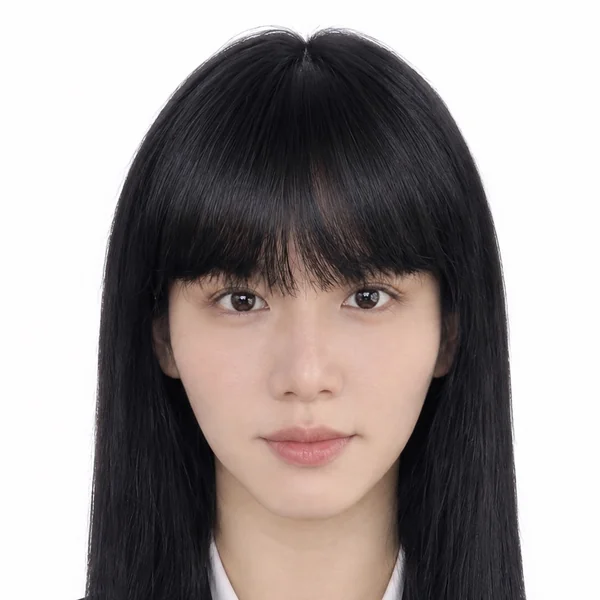
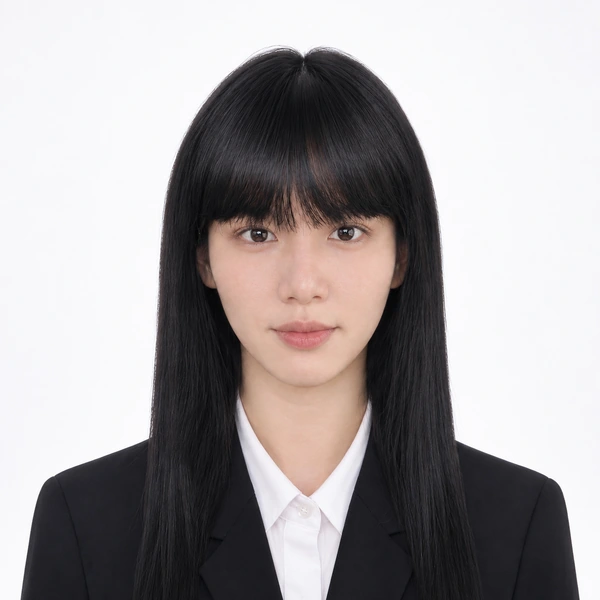
Use selected square formal portrait in original contact photo frame

diff --git a/_qa/check.py b/_qa/check.py
@@ -308,7 +308,7 @@ for rel in ('trend.html','mobile-trend.html'):
  if rel=='mobile-trend.html' and ('data-keycap-marquee' in html or 'class="mobile-bottom-bar"' not in html):
   errors.append(rel+': mobile research navigation regression')
 # Preserve the earlier original contact portrait as a provenance backup.
-# The latest user-provided 2026-11-11 photo is cropped without facial retouching for the original circular contact frame.
+# The user's final selected square formal portrait is resized without any further facial retouching for the original circular contact frame.
 portrait_path=ROOT/'contact-portrait-20261109.jpg'
[1 lines of base64/hex data omitted]
 if not portrait_path.is_file() or hashlib.sha256(portrait_path.read_bytes()).hexdigest()!=portrait_sha256:
@@ -319,7 +319,7 @@ if not avatar_path.is_file():
 else:
  avatar_data=avatar_path.read_bytes()
  if (not avatar_data.startswith(b'RIFF') or b'WEBP' not in avatar_data[:16]
[2 lines of base64/hex data omitted]
   errors.append('new profile photo: WebP crop does not match the uploaded photograph')
 for rel in ('contact.html','mobile-contact.html'):
  html=(ROOT/rel).read_text(encoding='utf-8')
